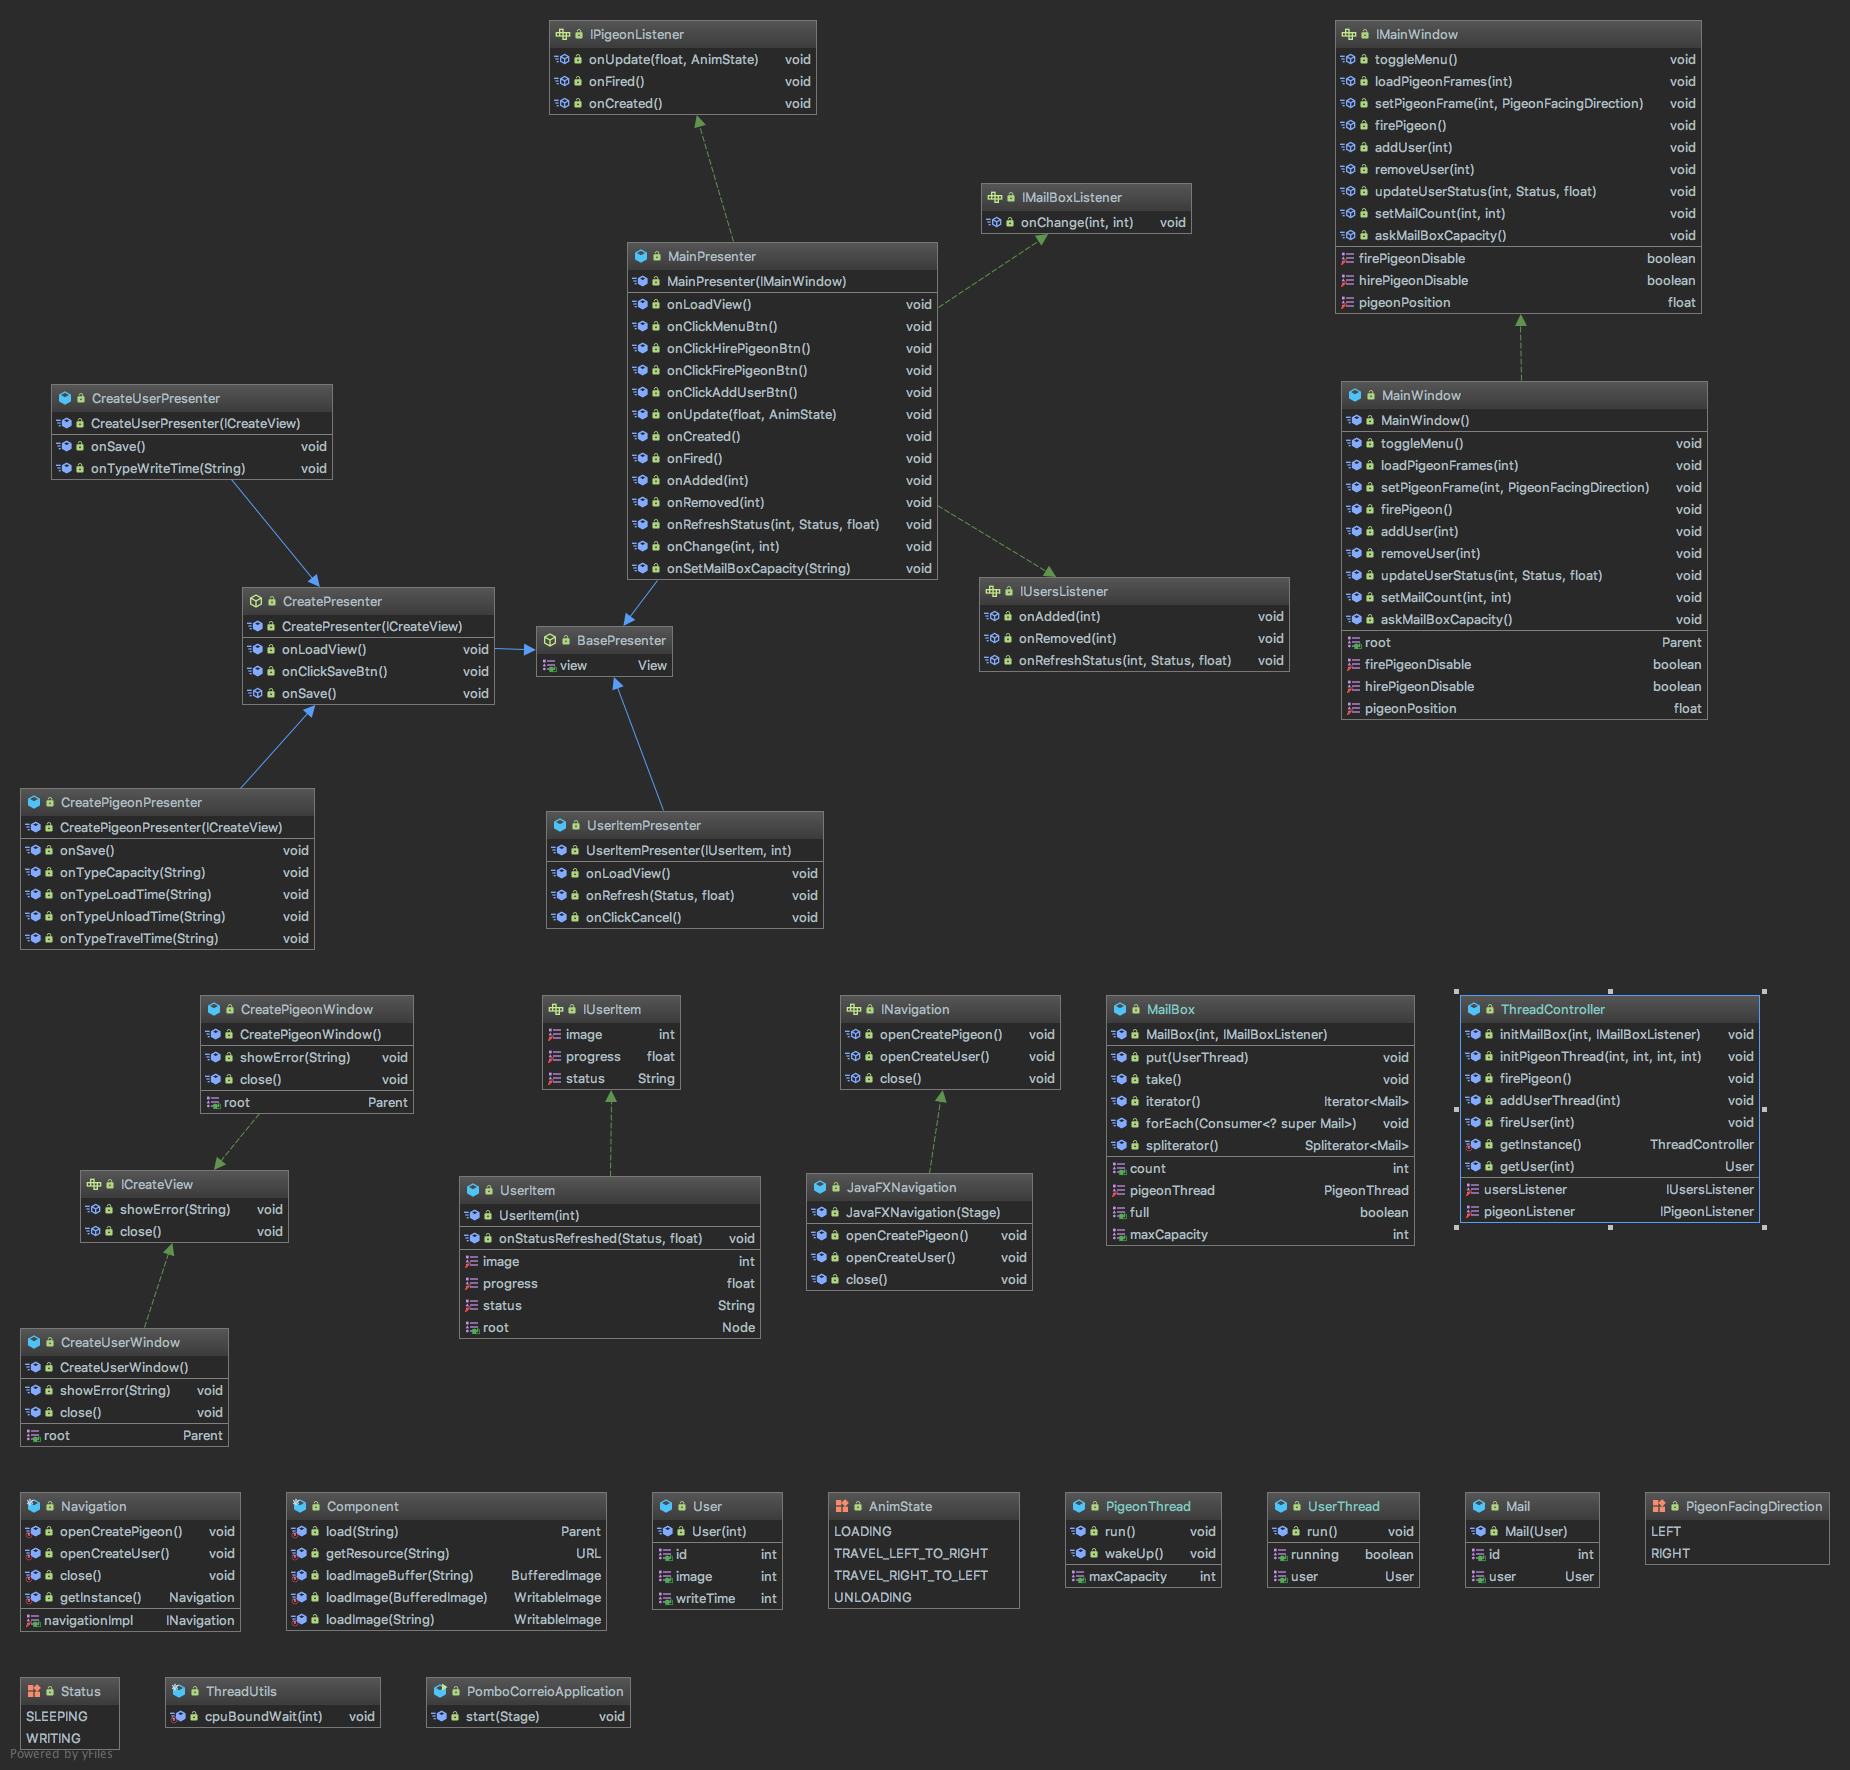
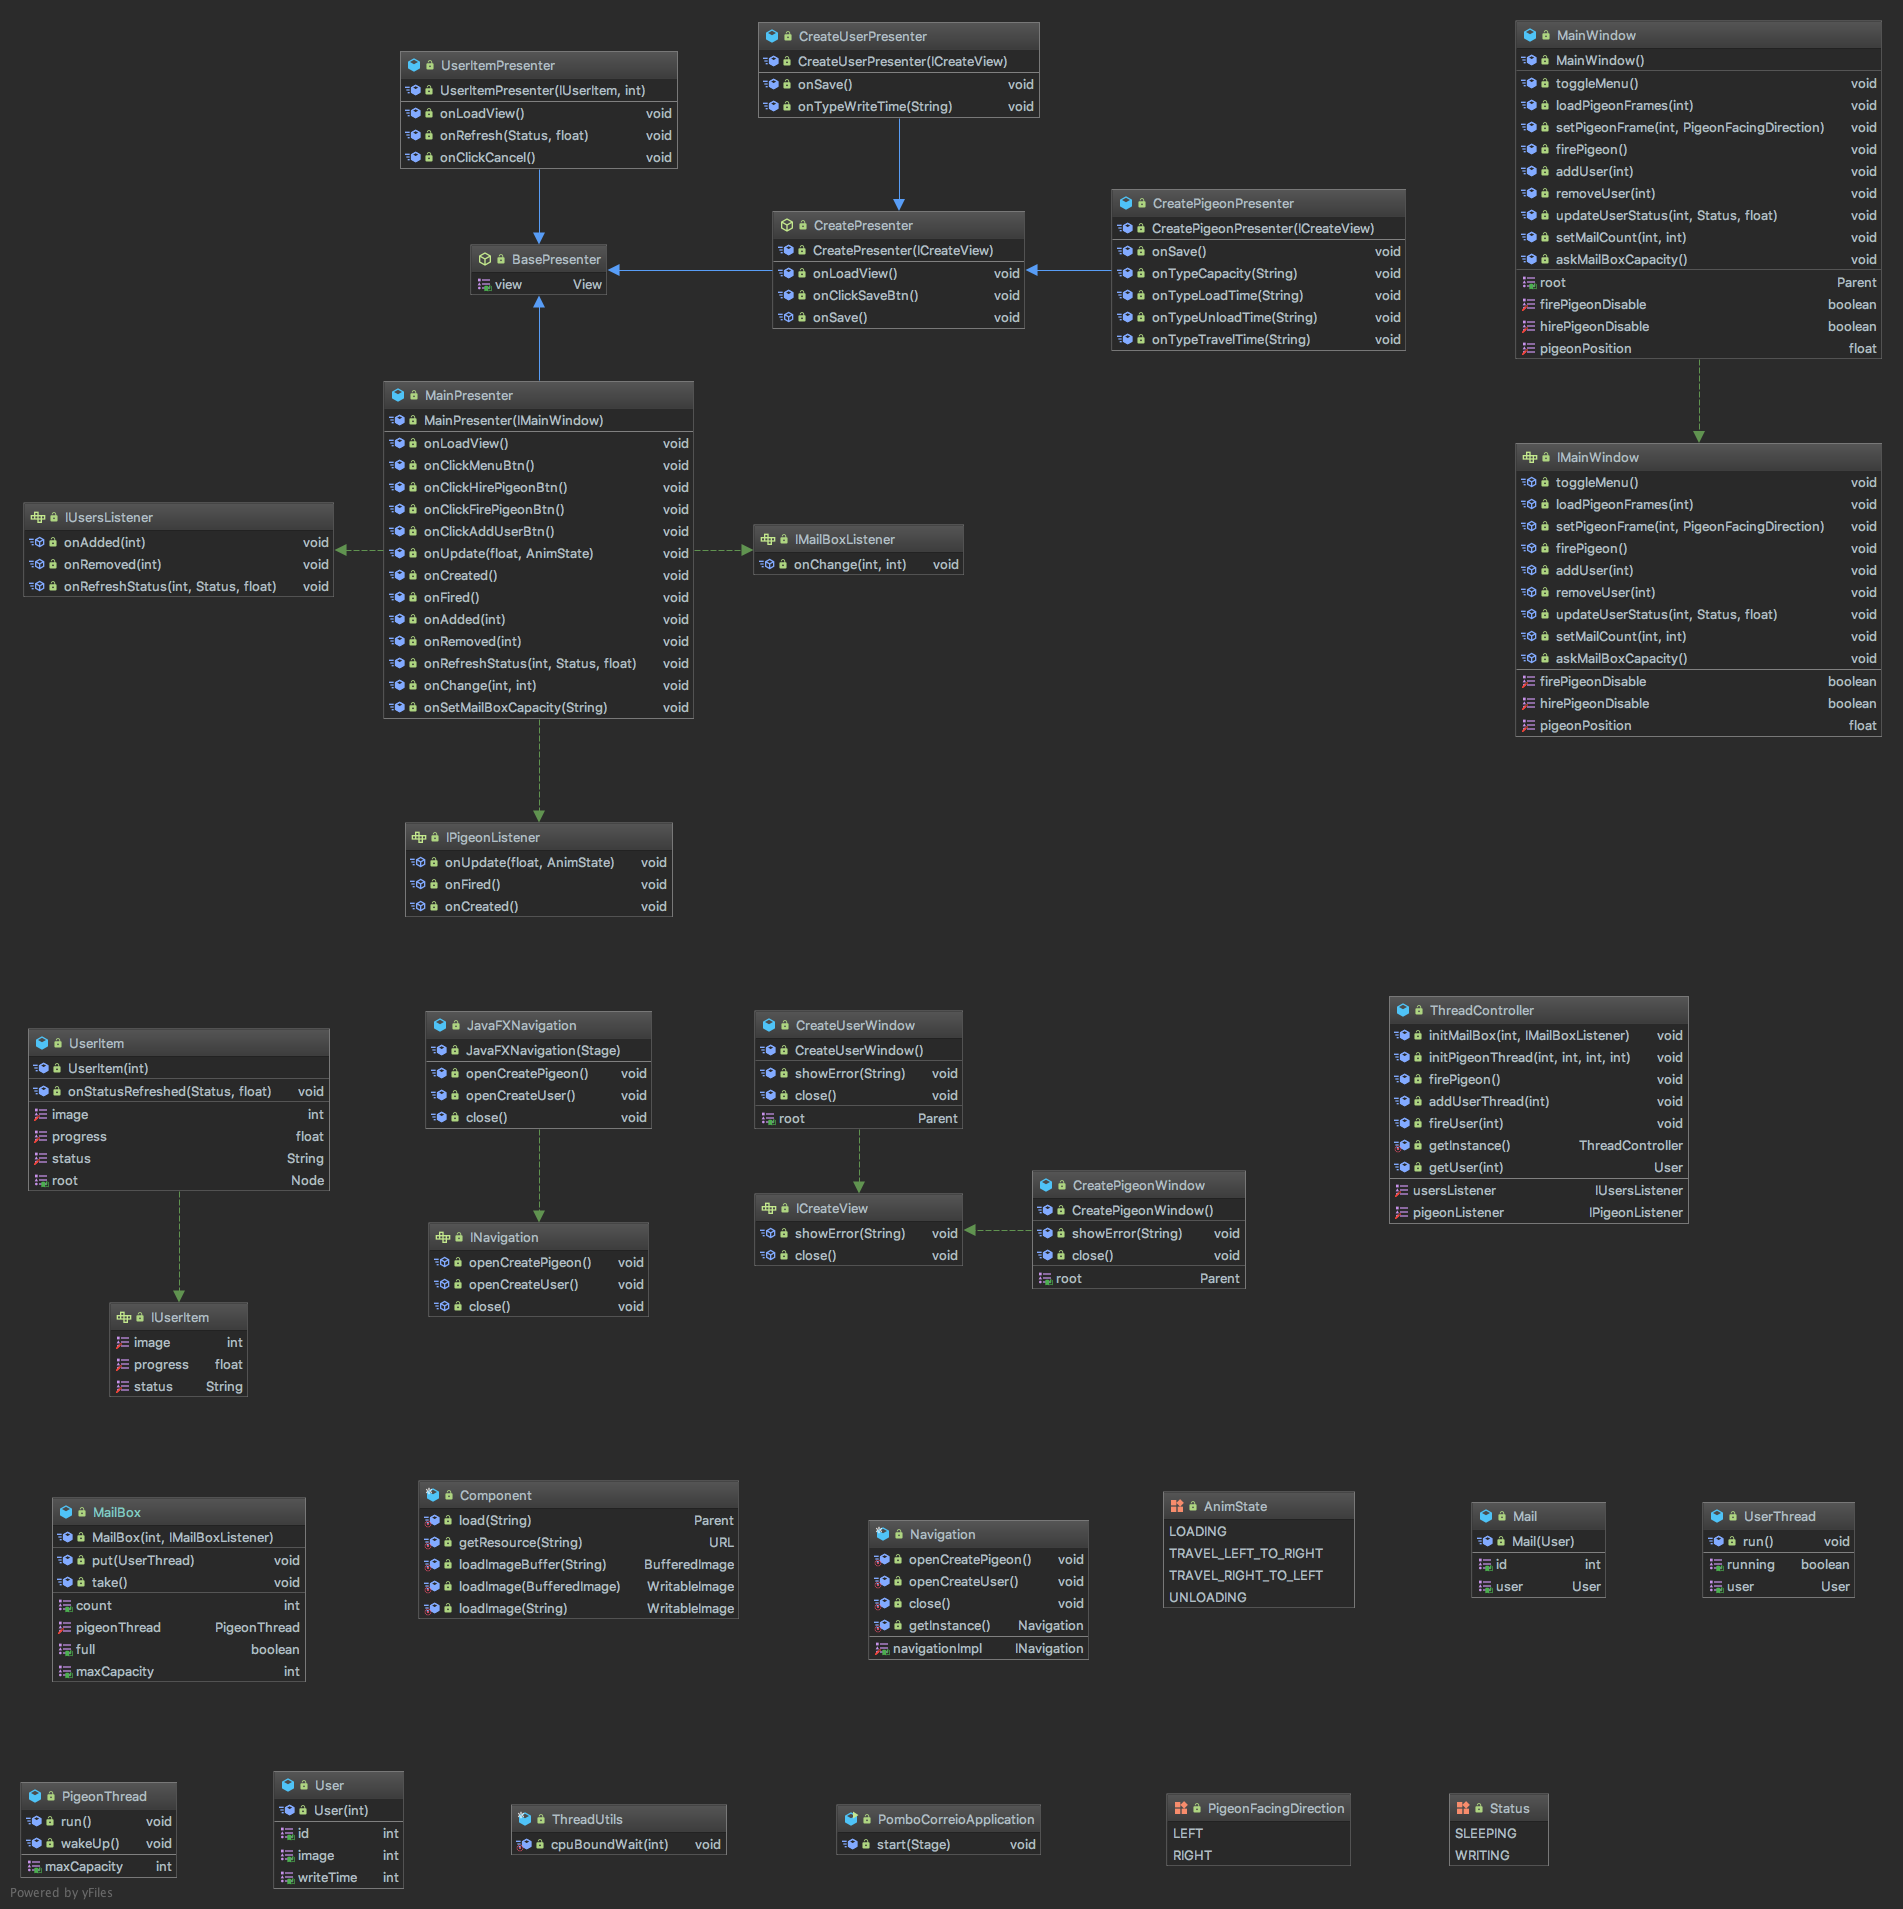
added diagram

diff --git a/src/main/java/br/edu/ifce/pigeon/jobs/MailBox.java b/src/main/java/br/edu/ifce/pigeon/jobs/MailBox.java
@@ -1,18 +1,13 @@
 package br.edu.ifce.pigeon.jobs;
 
-import br.edu.ifce.pigeon.jobs.PigeonThread;
-import br.edu.ifce.pigeon.jobs.UserThread;
 import br.edu.ifce.pigeon.models.Mail;
 import br.edu.ifce.pigeon.presenters.IMailBoxListener;
 
-import java.util.Iterator;
-import java.util.Spliterator;
 import java.util.concurrent.BlockingQueue;
 import java.util.concurrent.LinkedBlockingQueue;
 import java.util.concurrent.Semaphore;
-import java.util.function.Consumer;
 
-public class MailBox implements Iterable<Mail> {
+public class MailBox {
     private int maxCapacity;
     private final IMailBoxListener listener;
     private BlockingQueue<Mail> queue;
@@ -58,21 +53,6 @@ public class MailBox implements Iterable<Mail> {
         } catch (InterruptedException e) {
             e.printStackTrace();
         }
-    }
-
-    @Override
-    public Iterator<Mail> iterator() {
-        return this.queue.iterator();
-    }
-
-    @Override
-    public void forEach(Consumer<? super Mail> action) {
-        this.queue.forEach(action);
-    }
-
-    @Override
-    public Spliterator<Mail> spliterator() {
-        return this.queue.spliterator();
     }
 
     public int getCount() {
